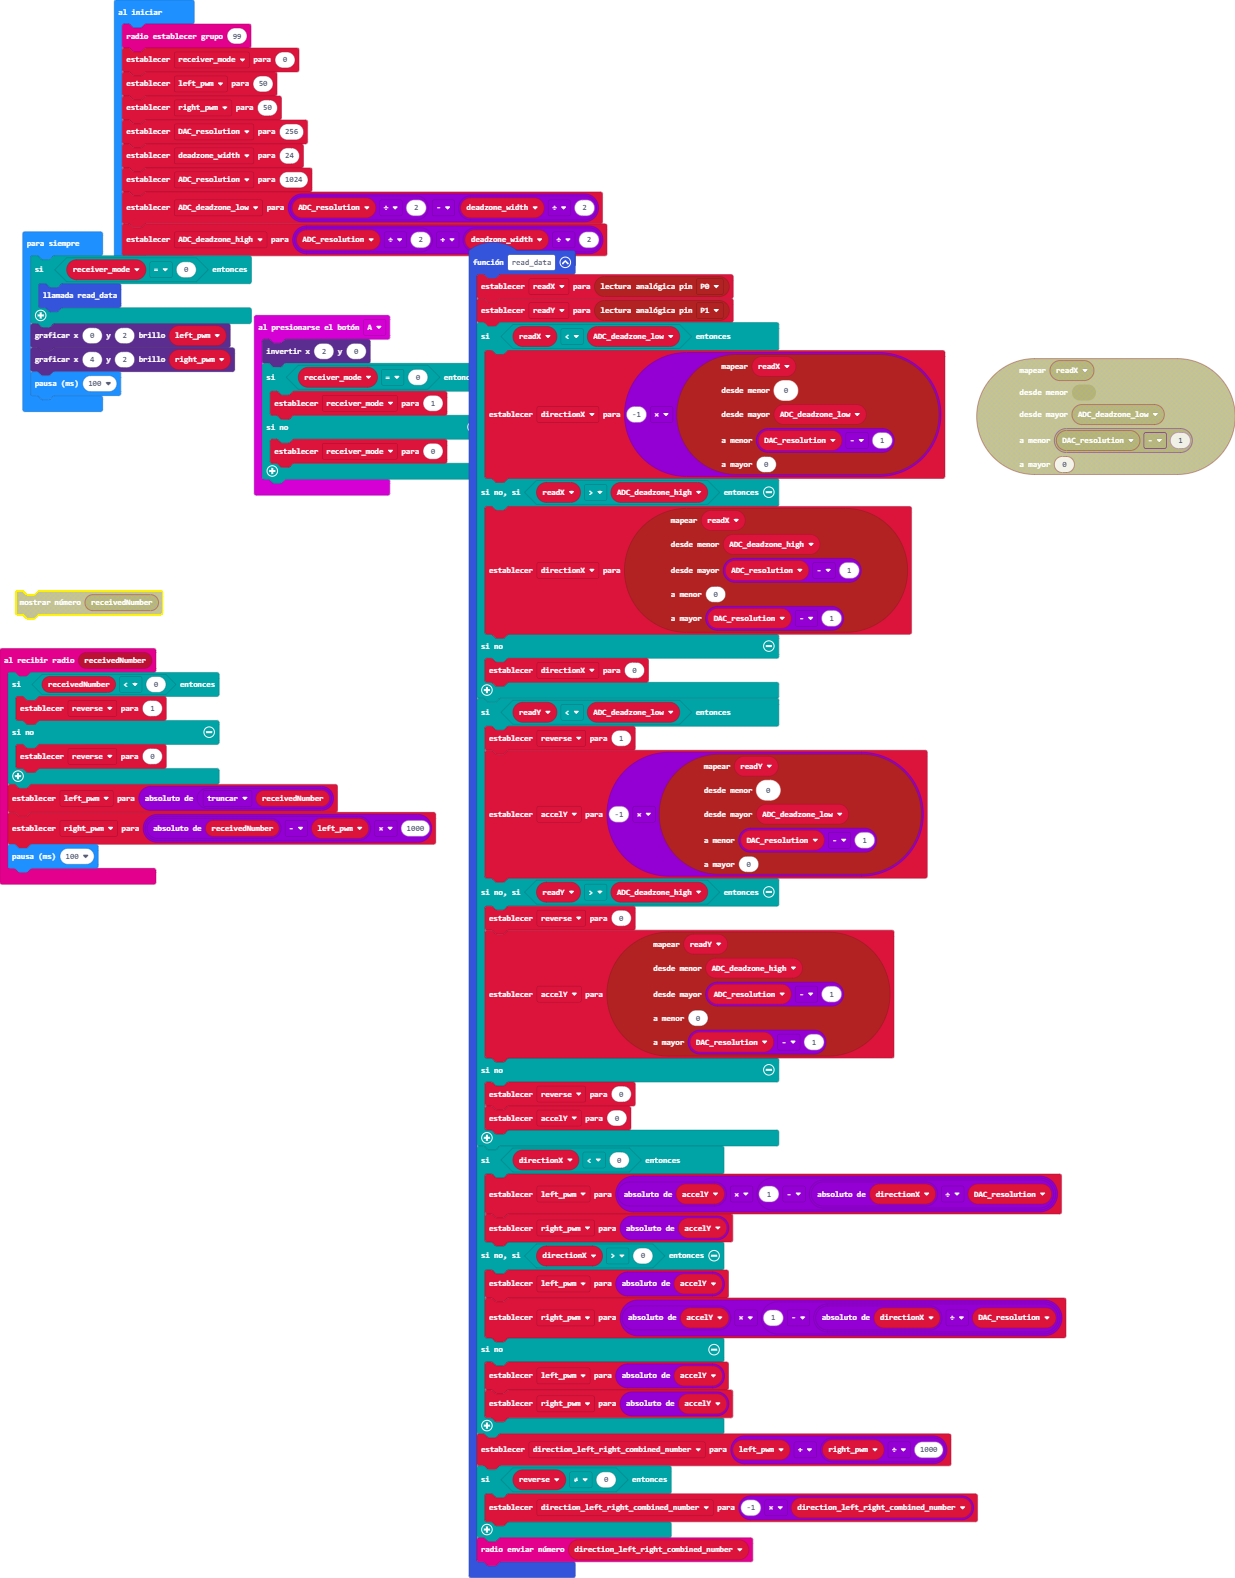
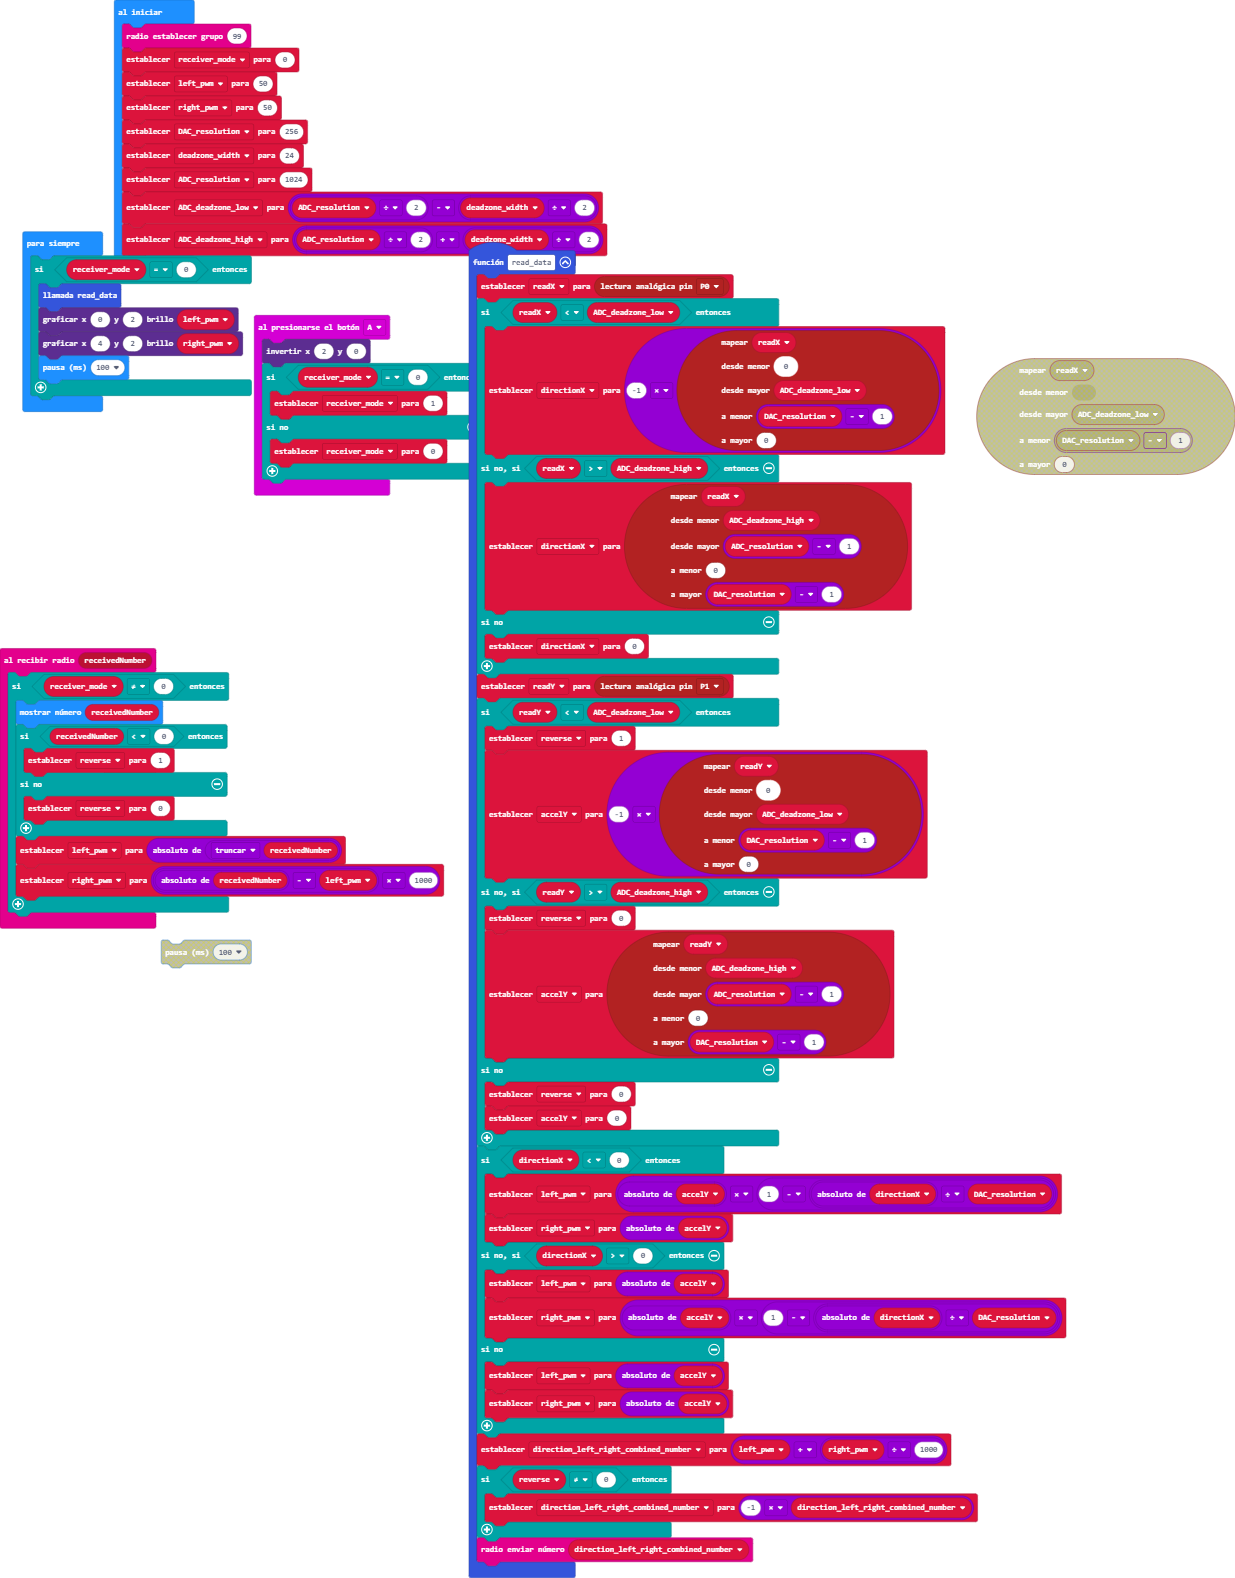
Actualizar main.blocks, main.ts

diff --git a/main.ts b/main.ts
@@ -1,12 +1,14 @@
 radio.onReceivedNumber(function (receivedNumber) {
-    if (receivedNumber < 0) {
-        reverse = 1
-    } else {
-        reverse = 0
+    if (receiver_mode != 0) {
+        basic.showNumber(receivedNumber)
+        if (receivedNumber < 0) {
+            reverse = 1
+        } else {
+            reverse = 0
+        }
+        left_pwm = Math.abs(Math.trunc(receivedNumber))
+        right_pwm = (Math.abs(receivedNumber) - left_pwm) * 1000
     }
-    left_pwm = Math.abs(Math.trunc(receivedNumber))
-    right_pwm = (Math.abs(receivedNumber) - left_pwm) * 1000
-    basic.pause(100)
 })
 input.onButtonPressed(Button.A, function () {
     led.toggle(2, 0)
@@ -18,7 +20,6 @@ input.onButtonPressed(Button.A, function () {
 })
 function read_data () {
     readX = pins.analogReadPin(AnalogPin.P0)
-    readY = pins.analogReadPin(AnalogPin.P1)
     if (readX < ADC_deadzone_low) {
         directionX = -1 * pins.map(
         readX,
@@ -38,6 +39,7 @@ function read_data () {
     } else {
         directionX = 0
     }
+    readY = pins.analogReadPin(AnalogPin.P1)
     if (readY < ADC_deadzone_low) {
         reverse = 1
         accelY = -1 * pins.map(
@@ -78,8 +80,8 @@ function read_data () {
 }
 let direction_left_right_combined_number = 0
 let accelY = 0
-let directionX = 0
 let readY = 0
+let directionX = 0
 let readX = 0
 let reverse = 0
 let ADC_deadzone_high = 0
@@ -101,8 +103,8 @@ ADC_deadzone_high = ADC_resolution / 2 + deadzone_width / 2
 basic.forever(function () {
     if (receiver_mode == 0) {
         read_data()
+        led.plotBrightness(0, 2, left_pwm)
+        led.plotBrightness(4, 2, right_pwm)
+        basic.pause(100)
     }
-    led.plotBrightness(0, 2, left_pwm)
-    led.plotBrightness(4, 2, right_pwm)
-    basic.pause(100)
 })
